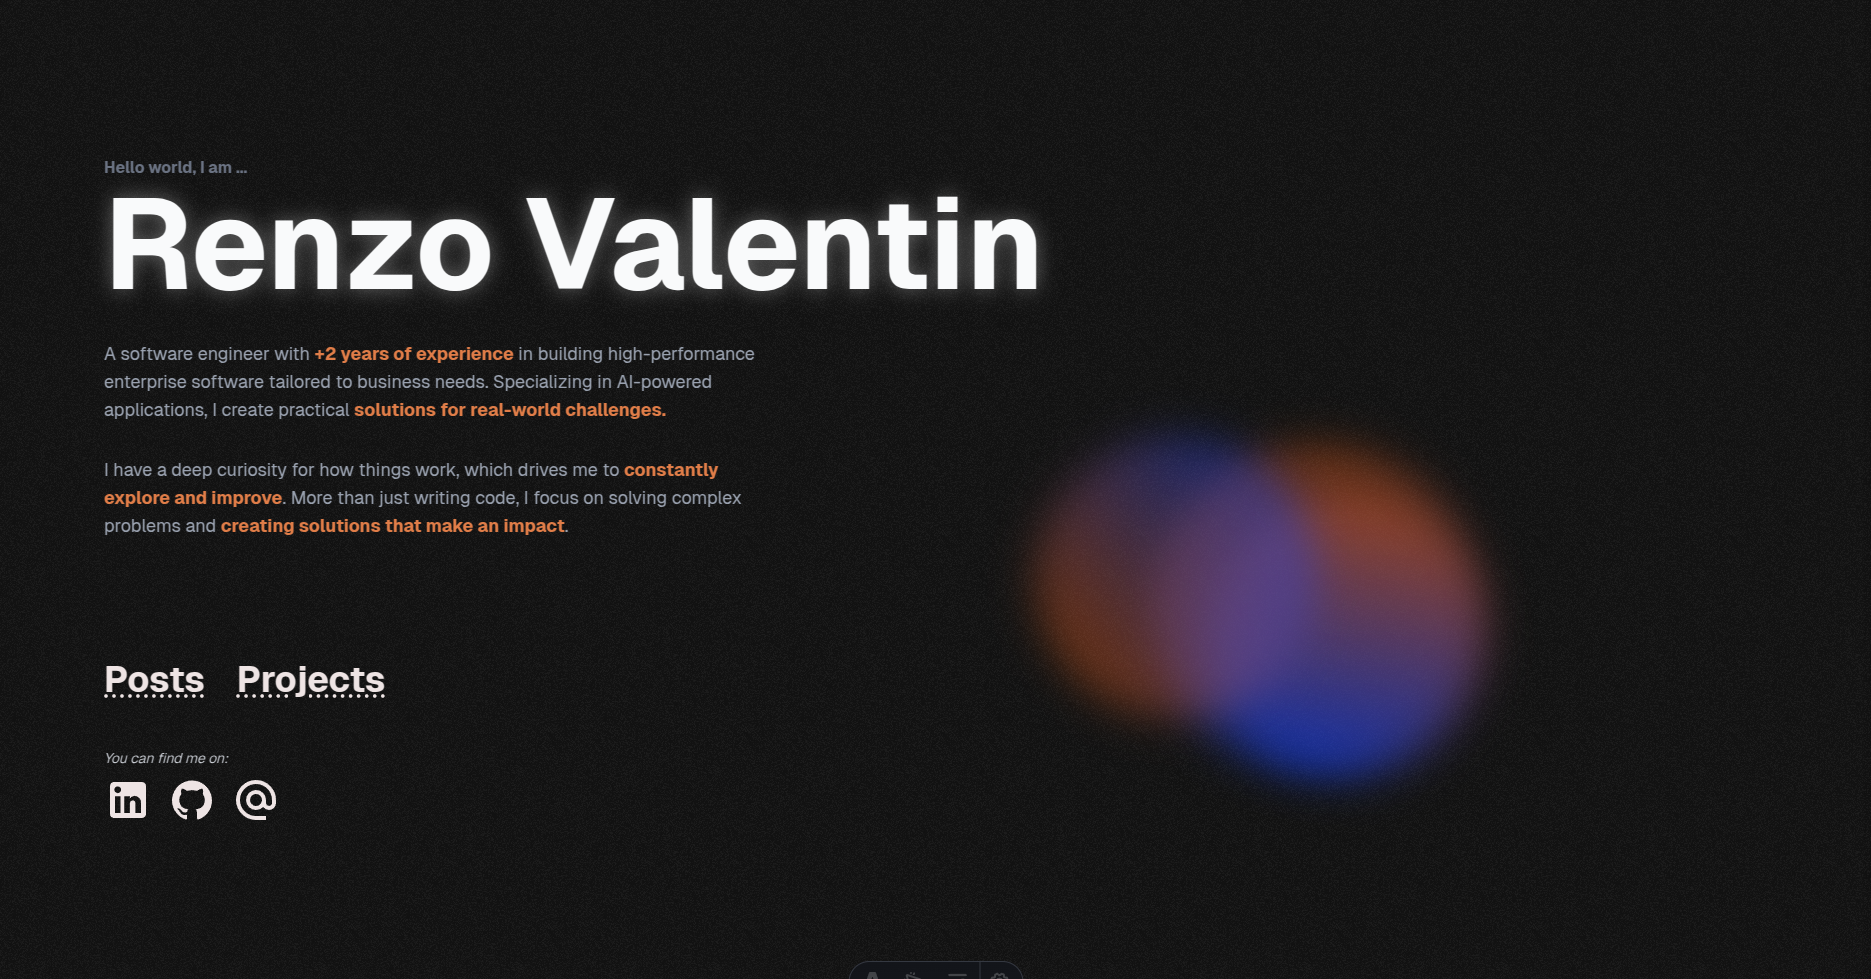
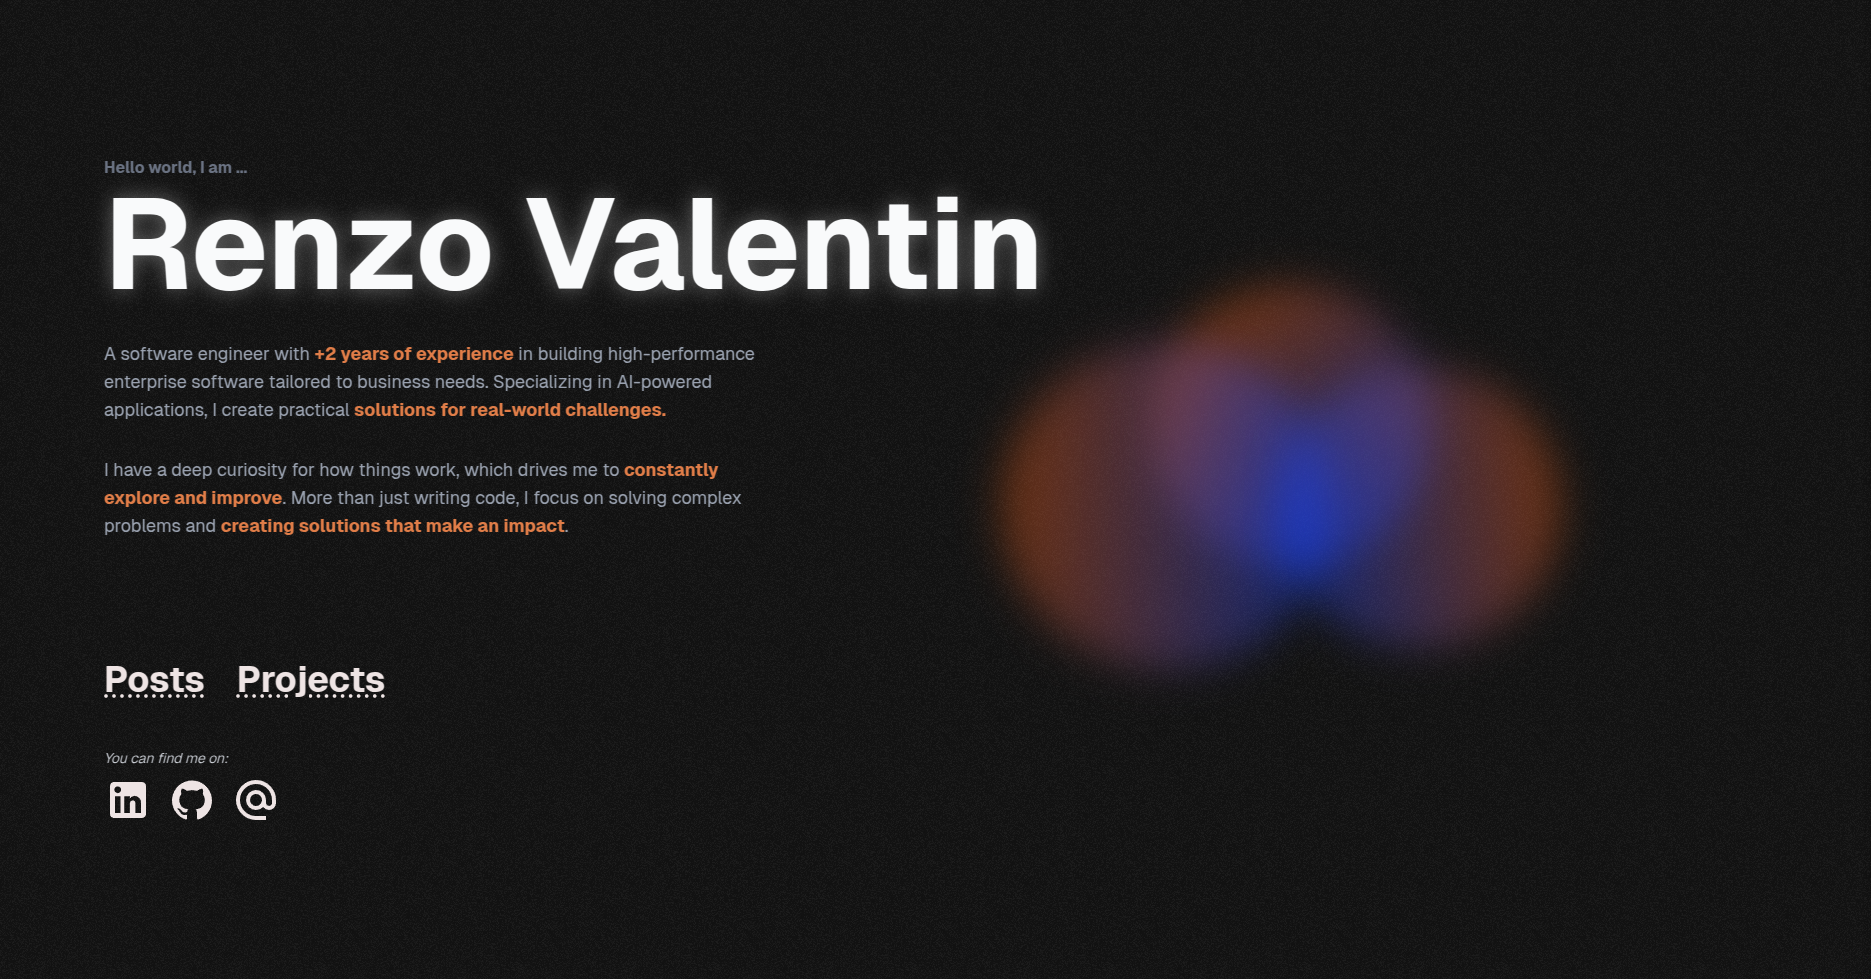
feat: update images and refine todo list for improved project tracking

Changed region(s): [[0.527, 0.2758, 0.837, 0.8274], [0.465, 0.9806, 0.527, 1.0]]

diff --git a/todo.md b/todo.md
@@ -4,19 +4,15 @@
 
 **Design**
   - [] Mejorar el efecto de glow del background
-  - [] Acercar el boton de hacia arriba al texto
-  - [] Hacer el diseno del titulo de los posts
+
   - [] Agregar el efecto de entrada al cargar la pagina
+  - [] Cambiar h1s por h2s
 
 **Blog**
-  - [] Redactar 3 post al ingles
 
- **Projects**
-  - [] Agregar 3 proyectos mas 
+**Projects**
 
 **Performance**
-  
-
 
 ## Done
 
@@ -32,7 +28,11 @@
   - [X] Agregar letras negritas a ciertas letras del texto
   - [X] Hacer la funcion de copiar codigo dentro del mismo archivo
   - [X] Unificar el comportamiento y todos los links que tengan ese glow
+  - [X] Hacer el diseno del titulo de los posts
 
+
+**Projects**
+  - [X] Agregar 3 proyectos mas 
 
 
   **Blog**
@@ -41,6 +41,8 @@
   - [X] Hacer el footer del blog
   - [X] Layout con titulo personalizado
   - [X] Agregar boton de copiar
+  - [X] Redactar 3 post al ingles
+
 
   **Performance**
   - [X] Agregar metadatos
@@ -49,3 +51,4 @@
 
 ## Canceled
  - Header al post (con busqueda)
+ - Acercar el boton de hacia arriba al texto
